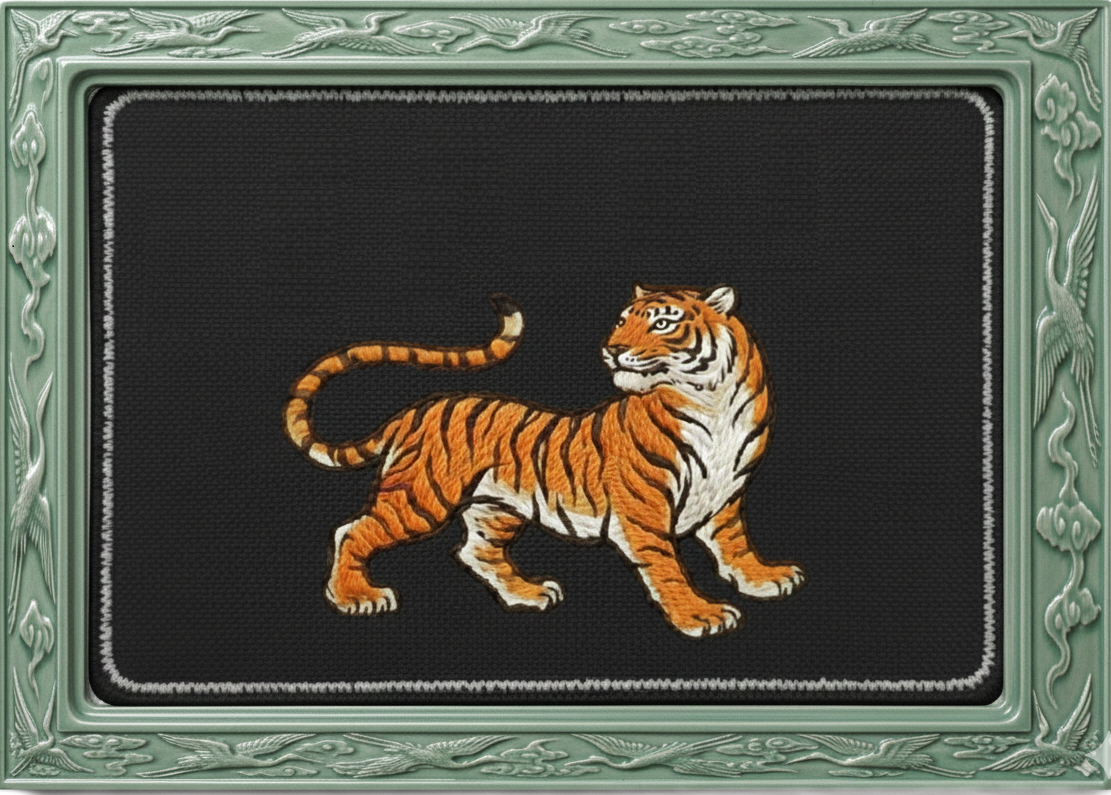
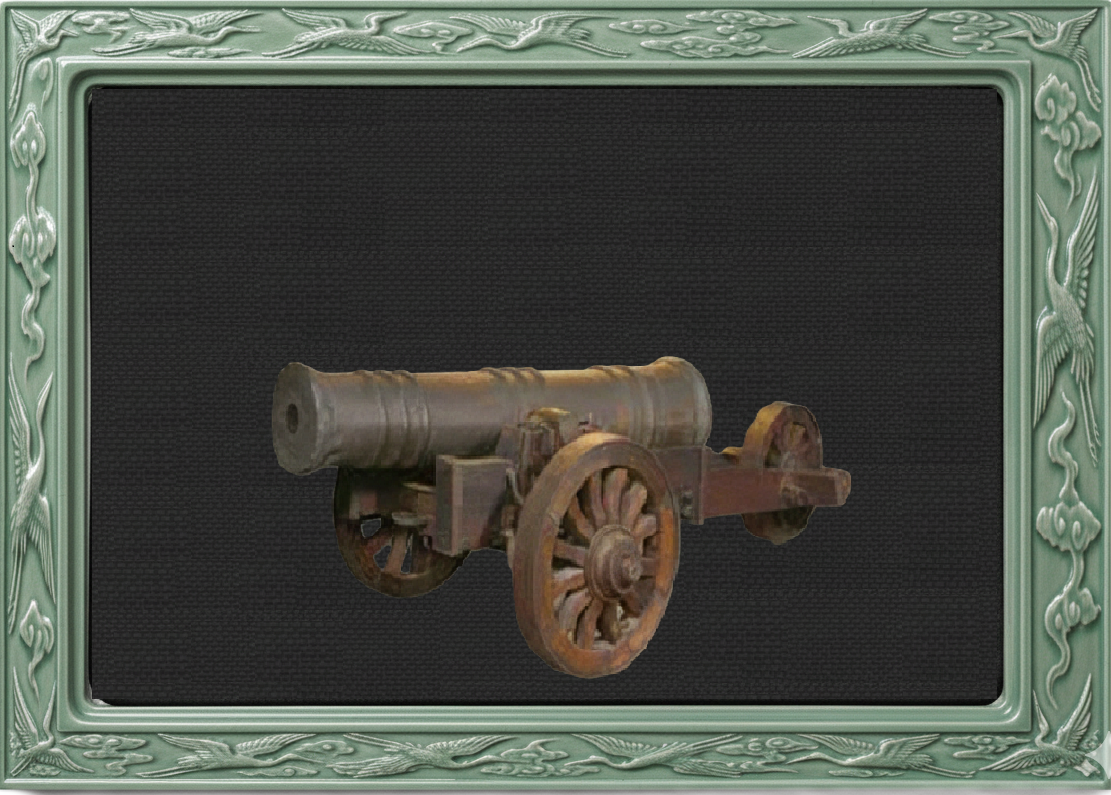
a

Changed region(s): [[0.0918, 0.0906, 0.9181, 0.8755]]

diff --git a/src/shared/config/era-theme.ts b/src/shared/config/era-theme.ts
@@ -52,6 +52,7 @@ export const ERAS: EraConfig[] = [
         endYear: ERA_LIMITS.GOJOSEON_END - 1,
         fontFamily: "'Cinzel', serif", // 고대 느낌
         color: '#D7C0AE', // 브론즈 베이지
+        bgImage: "/assets/images/gojoseon/timecontrol.png",
         timelineImage: "/assets/images/gojoseon/timeline.png",
     },
     {
@@ -63,6 +64,7 @@ export const ERAS: EraConfig[] = [
         endYear: ERA_LIMITS.PROTO_THREE_KINGDOMS_END - 1,
         fontFamily: "'Noto Serif KR', serif",
         color: '#E2E8F0', // 연한 올리브 그린/슬레이트
+        bgImage: "/assets/images/proto-three-kingdoms/timecontrol.png",
         timelineImage: "/assets/images/proto-three-kingdoms/timeline.png",
     },
     {
